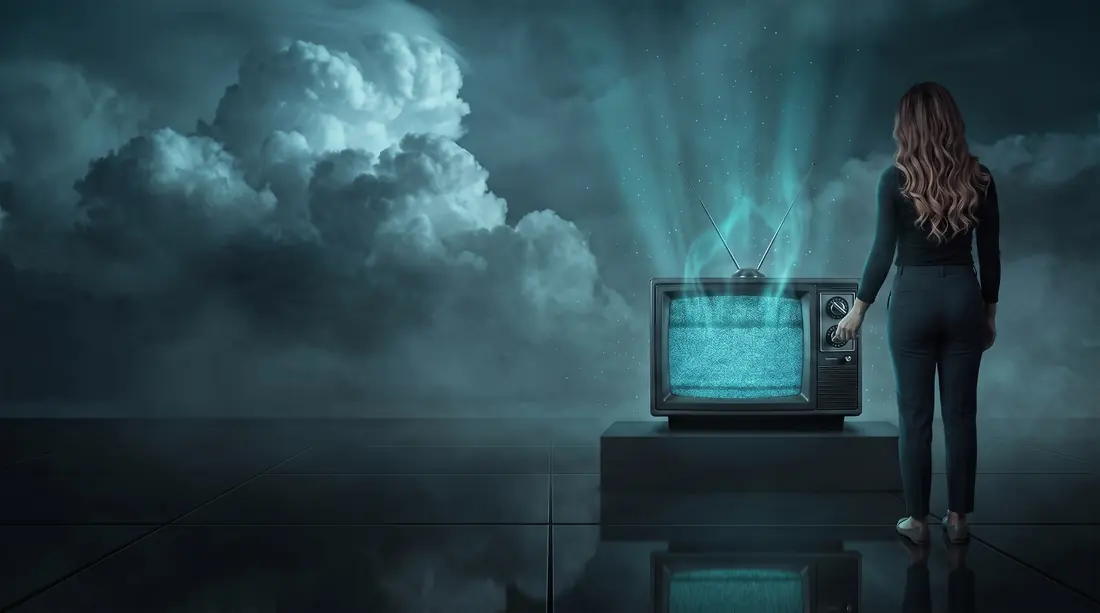
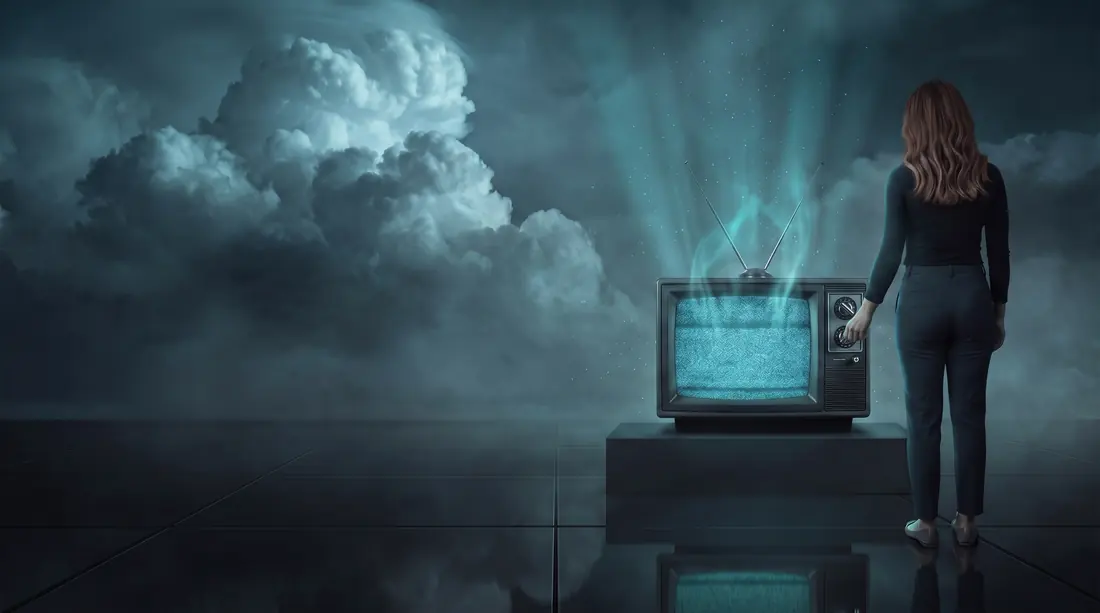
Hero hair: shoulder blade length, solid brown
Glitch rect re-measured for the new plate.

diff --git a/app/ops.css b/app/ops.css
@@ -380,9 +380,9 @@ html.ops-has-remote .ops summary {
 /* The set's screen glass, measured off the plate */
 .ops-glitch {
   position: absolute;
-  left: 61.2%;
-  top: 48.9%;
-  width: 11.7%;
+  left: 61.9%;
+  top: 48.3%;
+  width: 11.1%;
   height: 15.7%;
   overflow: hidden;
   border-radius: 13% / 15%;
